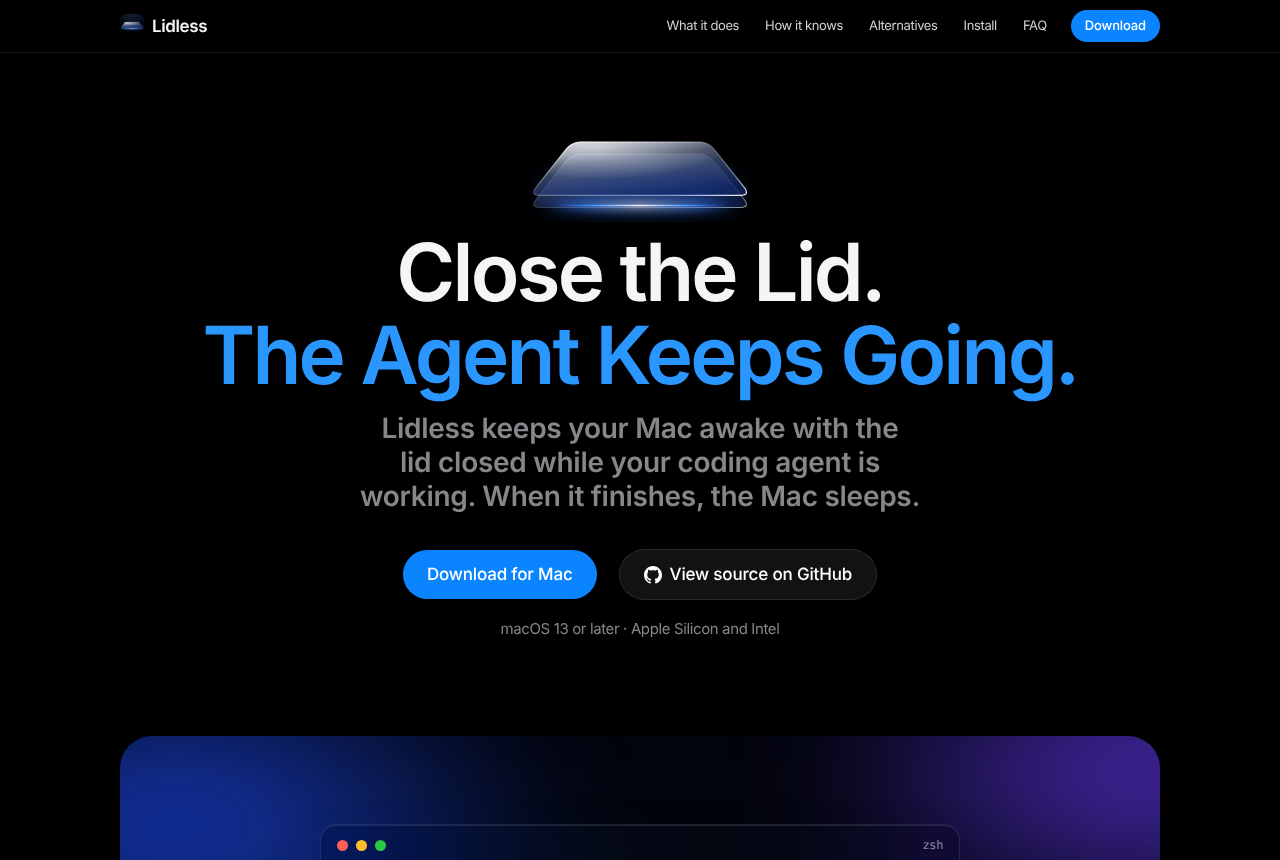
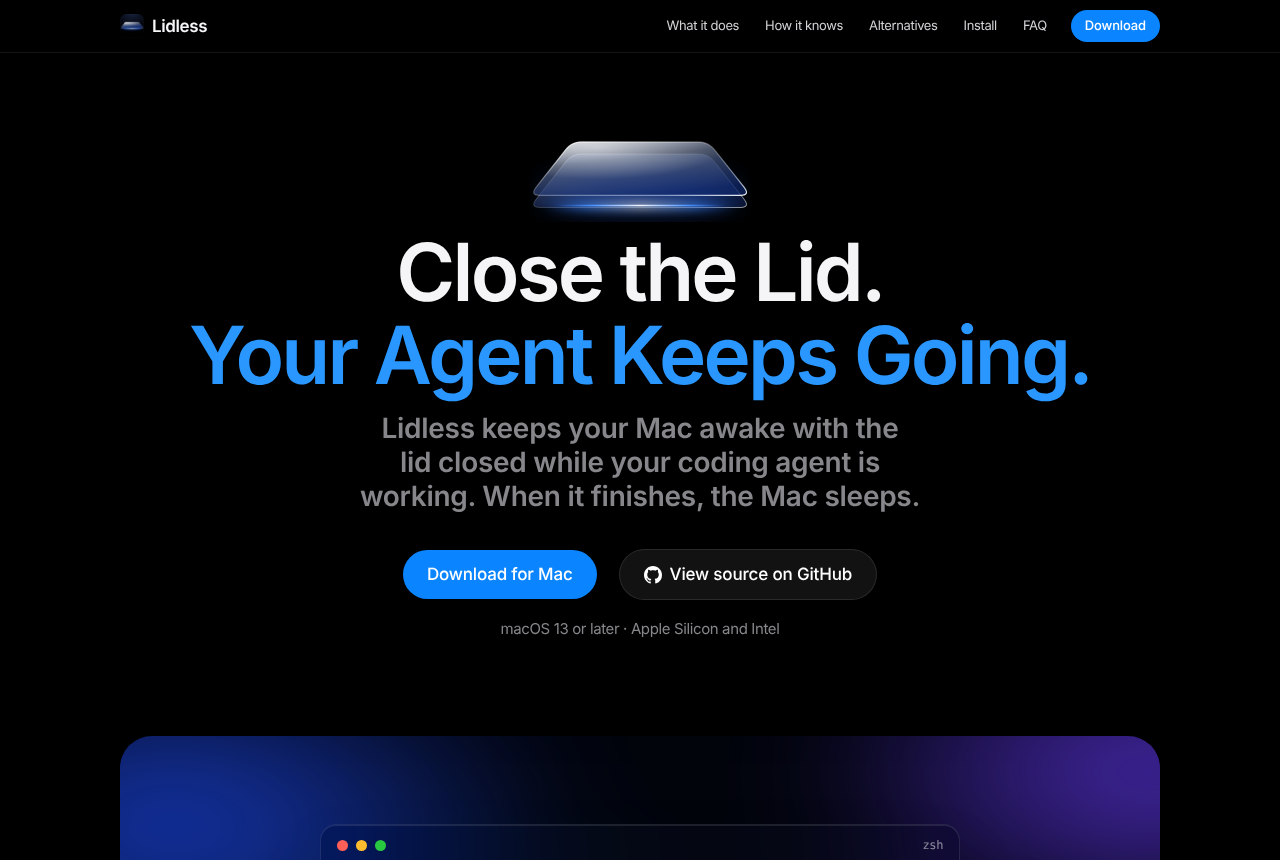
Say "your agent" instead of "the agent"
Website, README and the app's menu status line.

Claude-Session: https://claude.ai/code/session_0197D9BbWCwspEe3TYW1pizU

Changed region(s): [[0.1562, 0.3628, 0.8438, 0.4837]]

diff --git a/website/index.html b/website/index.html
@@ -8,7 +8,7 @@
 <meta name="theme-color" content="#000000">
 <meta name="color-scheme" content="dark">
 <meta property="og:title" content="Lidless - Keep Agents Running With the Lid Closed">
-<meta property="og:description" content="Close the lid. The agent keeps going. When it finishes, the Mac sleeps.">
+<meta property="og:description" content="Close the lid. Your agent keeps going. When it finishes, the Mac sleeps.">
 <meta property="og:image" content="icon.png">
 <link rel="icon" href="icon.png">
 <link rel="apple-touch-icon" href="icon.png">
@@ -218,9 +218,9 @@
   <header class="hero wrap">
     <img class="logo fade" style="--d:0s" src="logo.png" width="440" height="188" alt="Lidless logo: a closed laptop made of glass, light leaking from the seam">
     <h1 class="reveal">
-      <span class="sr-only">Close the Lid. The Agent Keeps Going.</span>
+      <span class="sr-only">Close the Lid. Your Agent Keeps Going.</span>
       <span class="line" aria-hidden="true"><span class="clip"><span class="word" style="--d:.05s">Close</span></span> <span class="clip"><span class="word" style="--d:.13s">the</span></span> <span class="clip"><span class="word" style="--d:.21s">Lid.</span></span></span>
-      <span class="line accent" aria-hidden="true"><span class="clip"><span class="word" style="--d:.33s">The</span></span> <span class="clip"><span class="word" style="--d:.41s">Agent</span></span> <span class="clip"><span class="word" style="--d:.49s">Keeps</span></span> <span class="clip"><span class="word" style="--d:.57s">Going.</span></span></span>
+      <span class="line accent" aria-hidden="true"><span class="clip"><span class="word" style="--d:.33s">Your</span></span> <span class="clip"><span class="word" style="--d:.41s">Agent</span></span> <span class="clip"><span class="word" style="--d:.49s">Keeps</span></span> <span class="clip"><span class="word" style="--d:.57s">Going.</span></span></span>
     </h1>
     <p class="sub fade" style="--d:.6s">Lidless keeps your Mac awake with the lid closed while your coding agent is working. When it finishes, the Mac sleeps.</p>
     <div class="cta fade" style="--d:.75s">
@@ -242,7 +242,7 @@
       <p class="eyebrow">What it does</p>
       <h2>No Timer.<br><span class="accent">Your Agent Decides.</span></h2>
       <div class="body">
-        <p>Keep-awake apps make you pick a duration. Lidless watches the agent instead. While an agent is working it holds <code>pmset disablesleep</code>, the setting that covers lid-close sleep. When the work stops, it lets go.</p>
+        <p>Keep-awake apps make you pick a duration. Lidless watches your agent instead. While an agent is working it holds <code>pmset disablesleep</code>, the setting that covers lid-close sleep. When the work stops, it lets go.</p>
       </div>
     </div>
   </section>
@@ -272,7 +272,7 @@
         <thead><tr><th></th><th>Lidless</th><th>Amphetamine</th><th>caffeinate</th><th>Cloud agents</th></tr></thead>
         <tbody>
           <tr><td>Awake with lid closed</td><td class="y">✓</td><td><span class="w">buried</span></td><td class="n">✗</td><td class="y">✓</td></tr>
-          <tr><td>Ends when the agent ends</td><td class="y">✓</td><td class="n">✗</td><td><span class="w">-w pid</span></td><td class="y">✓</td></tr>
+          <tr><td>Ends when your agent ends</td><td class="y">✓</td><td class="n">✗</td><td><span class="w">-w pid</span></td><td class="y">✓</td></tr>
           <tr><td>Sleeps once done, lid shut</td><td class="y">✓</td><td class="n">✗</td><td class="n">✗</td><td>-</td></tr>
           <tr><td>No timer to pick</td><td class="y">✓</td><td class="n">✗</td><td class="n">✗</td><td class="y">✓</td></tr>
           <tr><td>Your machine, your setup</td><td class="y">✓</td><td class="y">✓</td><td class="y">✓</td><td class="n">✗</td></tr>
@@ -316,9 +316,9 @@
       <h2>Questions About<br><span class="accent">Your Agent.</span></h2>
     </div>
     <div class="faq in">
-      <details><summary>Can a timer be set?</summary><p>No. The agent decides. For anything else, use <code>lidless run</code>.</p></details>
+      <details><summary>Can a timer be set?</summary><p>No. Your agent decides. For anything else, use <code>lidless run</code>.</p></details>
       <details><summary>Does it work without an external monitor?</summary><p>Yes. <code>pmset disablesleep</code> covers lid-close sleep directly.</p></details>
-      <details><summary>What happens when the agent finishes with the lid closed?</summary><p>Lidless restores normal sleep and puts the Mac to sleep within a few seconds, unless an external display is attached.</p></details>
+      <details><summary>What happens when your agent finishes with the lid closed?</summary><p>Lidless restores normal sleep and puts the Mac to sleep within a few seconds, unless an external display is attached.</p></details>
       <details><summary>What if Claude Code is waiting on a permission prompt?</summary><p>A permission prompt is not a finished turn, so the Mac stays awake waiting for an answer. For unattended runs, use auto mode or allow rules so nothing blocks. If a session goes fully quiet for 15 minutes without finishing, Lidless lets it go anyway.</p></details>
       <details><summary>Does it drain battery faster?</summary><p>Only while an agent is working, about the same as using it with the lid open.</p></details>
       <details><summary>Does Lidless send any data anywhere?</summary><p>No. No network access, no telemetry, no account.</p></details>

diff --git a/app/Sources/App.swift b/app/Sources/App.swift
@@ -142,7 +142,7 @@ final class AppDelegate: NSObject, NSApplicationDelegate, NSMenuDelegate {
     private var statusLine: String {
         if !Power.isAuthorized { return "Needs permission to keep the lid awake" }
         if let p = pausedReason { return p }
-        if holding { return sources.count == 1 ? "Awake until the agent finishes" : "Awake until \(sources.count) agents finish" }
+        if holding { return sources.count == 1 ? "Awake until your agent finishes" : "Awake until \(sources.count) agents finish" }
         return "Waiting for an agent"
     }
 

diff --git a/README.md b/README.md
@@ -7,7 +7,7 @@
   </picture>
 </a>
 
-### Close the lid. The agent keeps going.
+### Close the lid. Your agent keeps going.
 
 Lidless keeps your Mac awake with the lid closed for exactly as long as your coding agent is working, then lets it sleep. No timer to pick.
 
@@ -23,13 +23,13 @@ Lidless keeps your Mac awake with the lid closed for exactly as long as your cod
 ---
 
 <p align="center">
-  <img src="docs/website.png" alt="The Lidless website: Close the Lid. The Agent Keeps Going." width="820">
+  <img src="docs/website.png" alt="The Lidless website: Close the Lid. Your Agent Keeps Going." width="820">
 </p>
 
 ## Features
 
 - **Awake with the lid closed** while an agent works. No external monitor, no Terminal commands.
-- **Ends when the agent ends.** The moment the last agent finishes, normal sleep is back. If the lid is shut, the Mac sleeps within seconds.
+- **Ends when your agent ends.** The moment the last agent finishes, normal sleep is back. If the lid is shut, the Mac sleeps within seconds.
 - **Exact for Claude Code and Codex.** Hooks are added in the background and report every turn's start and finish.
 - **Works with the rest by activity:** Gemini CLI, Aider, OpenCode, Cursor Agent, Goose, Amp, Qwen Code, Crush, Droid, Copilot CLI.
 - **Wrap anything else** with `lidless run -- <command>`.
@@ -41,7 +41,7 @@ Lidless keeps your Mac awake with the lid closed for exactly as long as your cod
 | --- | --- | --- |
 | Claude Code | `UserPromptSubmit` starts, `Stop` and `SessionEnd` end (`~/.claude/settings.json`) | Exact |
 | Codex CLI | `UserPromptSubmit` starts, `Stop`, `Interrupt` and `SessionEnd` end (`~/.codex/hooks.json`) | Exact, after Codex's one-time hook review |
-| Everything else | The agent or anything it spawned is using CPU; released after two quiet minutes | Close |
+| Everything else | Your agent or anything it spawned is using CPU; released after two quiet minutes | Close |
 | `lidless run -- <cmd>` | The command is running | Exact |
 
 The menubar icon is a closed laptop:
